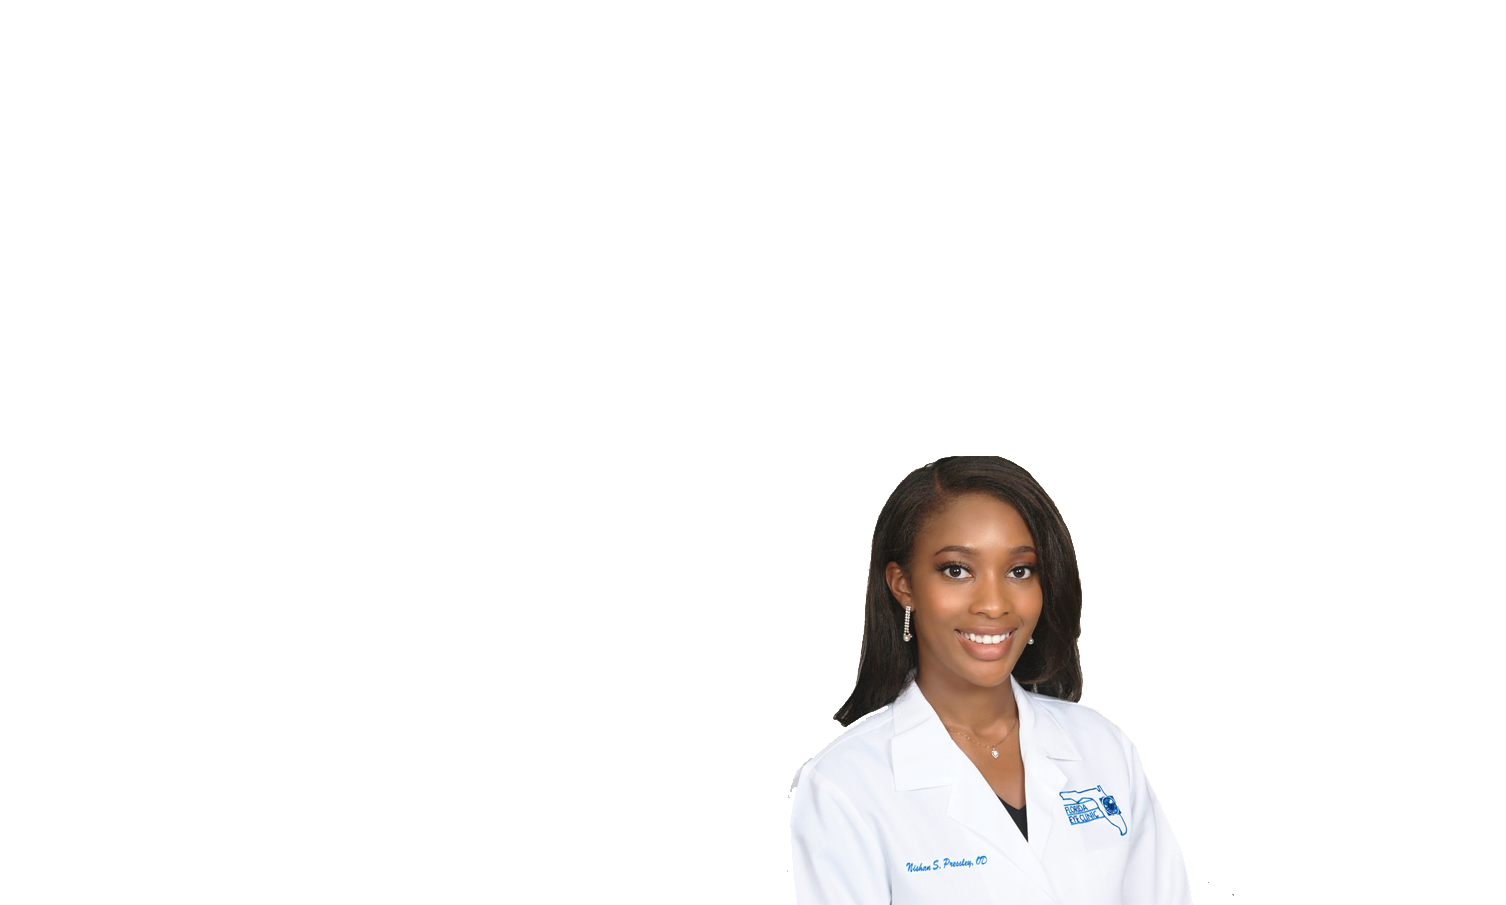
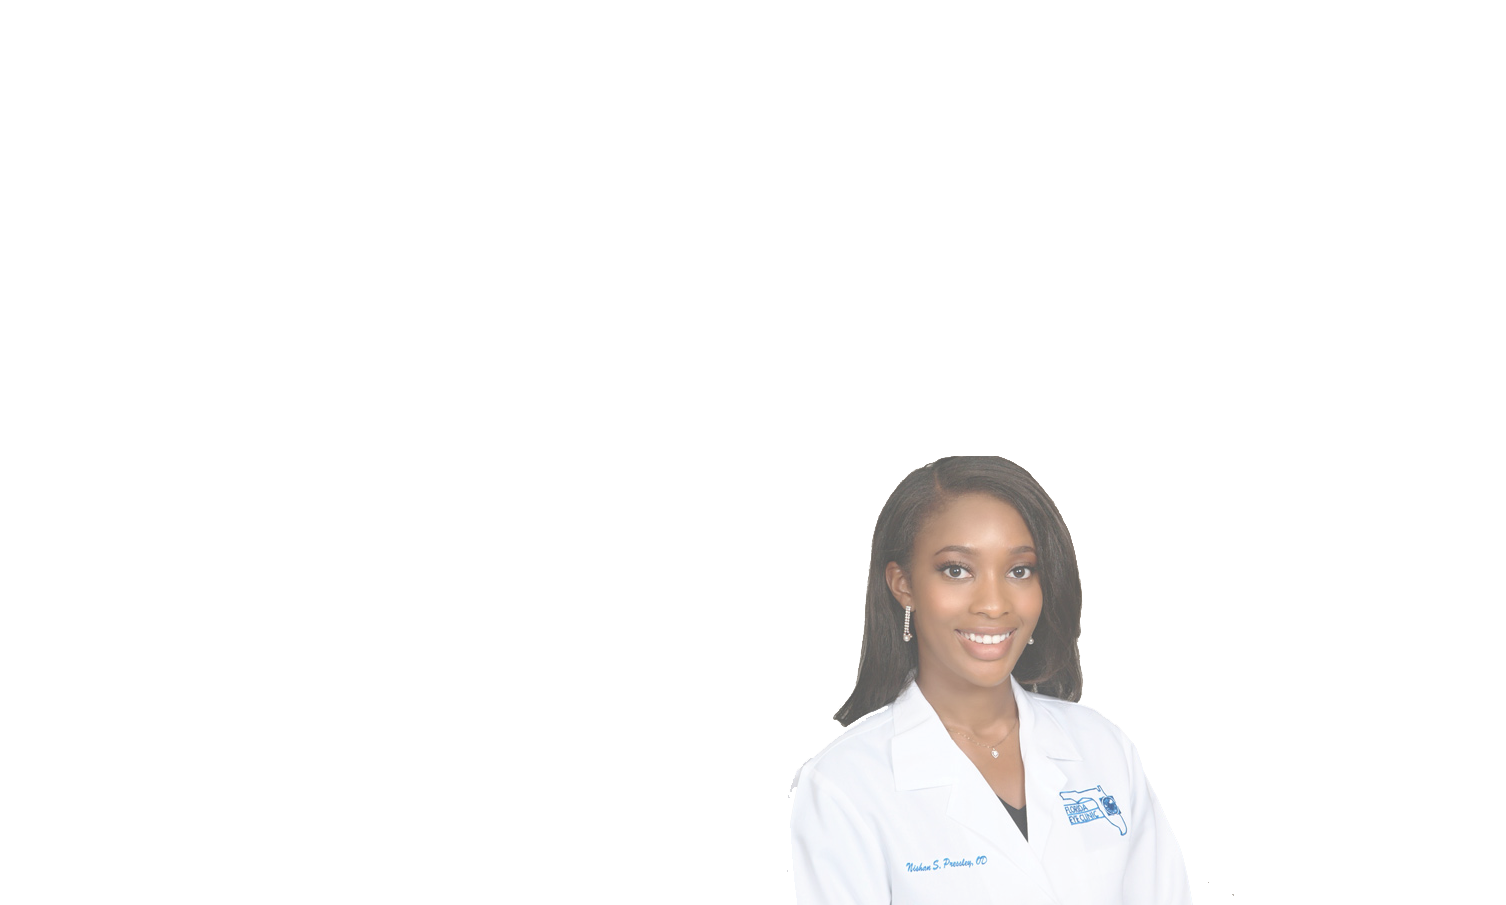
fixes

Changed region(s): [[0.5305, 0.495, 0.749, 0.9282], [0.6242, 0.9282, 0.6554, 0.9591]]

diff --git a/assets/css/query.css b/assets/css/query.css
@@ -118,6 +118,9 @@ font-size: 10rem;
         top: -40px;
         left: -2%;
     }
+    .woman{
+        visibility: hidden;
+    }
    
     .mobile-menu-toggler{
         position: relative;
@@ -142,6 +145,9 @@ font-size: 10rem;
         position: relative;
         top: -40px;
         left: -2%;
+    }
+    .woman{
+        visibility: hidden;
     }
    
     .mobile-menu-toggler{
@@ -168,6 +174,10 @@ font-size: 10rem;
         top: -40px;
         left: -2%;
     }
+    .woman{
+        visibility: hidden;
+    }
+   
    
     .mobile-menu-toggler{
        padding-left: 380px;
@@ -194,6 +204,10 @@ font-size: 10rem;
         top: -2px;
         left: -2%;
     }
+    .woman{
+        visibility: hidden;
+    }
+   
    
     .mobile-menu-toggler{
         position: relative;
@@ -223,6 +237,9 @@ font-size: 10rem;
         position: relative;
         top: -2px;
         left: -2%;
+    }
+    .woman{
+        visibility: hidden;
     }
    
     .mobile-menu-toggler{
@@ -268,6 +285,9 @@ font-size: 10rem;
         top: -40px;
         left: -2%;
     }
+    .woman{
+        visibility: hidden;
+    }
    
     .mobile-menu-toggler{
         position: relative;
@@ -291,6 +311,9 @@ font-size: 10rem;
             top: -2px;
             left: 5%;
         }
+        .woman{
+            visibility: hidden;
+        }
        
         .mobile-menu-toggler{
             position: relative;
@@ -302,9 +325,7 @@ font-size: 10rem;
         right: 12.5rem;
         bottom: -26rem;
         }
-        body{
-            background-color: red;
-        }
+       
      }
 
  /* iphone 12 pro max*/
@@ -317,6 +338,9 @@ font-size: 10rem;
             position: relative;
             top: -2px;
             left: 5%;
+        }
+        .woman{
+            visibility: hidden;
         }
        
         .mobile-menu-toggler{
@@ -362,6 +386,9 @@ font-size: 10rem;
             top: -40px;
             left: -2%;
         }
+        .woman{
+            visibility: hidden;
+        }
        
         .mobile-menu-toggler{
             position: absolute;
@@ -386,6 +413,10 @@ font-size: 10rem;
             top: -40px;
             left: -2%;
         }
+        .woman{
+            visibility: hidden;
+        }
+       
        
         .mobile-menu-toggler{
             position: absolute;
@@ -399,8 +430,6 @@ font-size: 10rem;
         right: 15.5rem;
         bottom: -26rem;
         }
-        body{
-            background-color: red;
-        }
+        
     }
         

diff --git a/assets/css/style.min.css b/assets/css/style.min.css
@@ -4974,12 +4974,12 @@ body:not(.loaded) * {
     opacity: 0.7;
 }
 .input-footer .form-control {
-    background-color: #22306d;
+    background-color: #fff;
     border: none;
-    color: #fff;
+    color: #5E3482;
 }
 .input-footer .form-control::placeholder {
-    color: #fff;
+    color: #5E3482;
 }
 .input-footer .form-action {
     background-color: transparent;
@@ -4995,7 +4995,7 @@ body:not(.loaded) * {
     color: #5d3382;
 }
 .input-dark .form-control {
-    background-color: #22306d;
+    background-color: #5E3482;
     color: #fff;
     border: 2px solid #4b5ca7;
 }

diff --git a/index.html b/index.html
@@ -131,7 +131,7 @@
 				<div class="banner intro-slide bg-gradient">
 					<div class="container">
 						<figure>
-							<img src="assets/images/demos/demo-1/banner/banner-11.png" class="appear-animate"
+							<img src="assets/images/demos/demo-1/banner/banner-11.png" class="appear-animate woman"
 							data-animation-name="fadeInUp" data-animation-delay="0" data-animation-duration="1s"
 							alt="Banner-slide" width="1506" height="905">
 						</figure>
